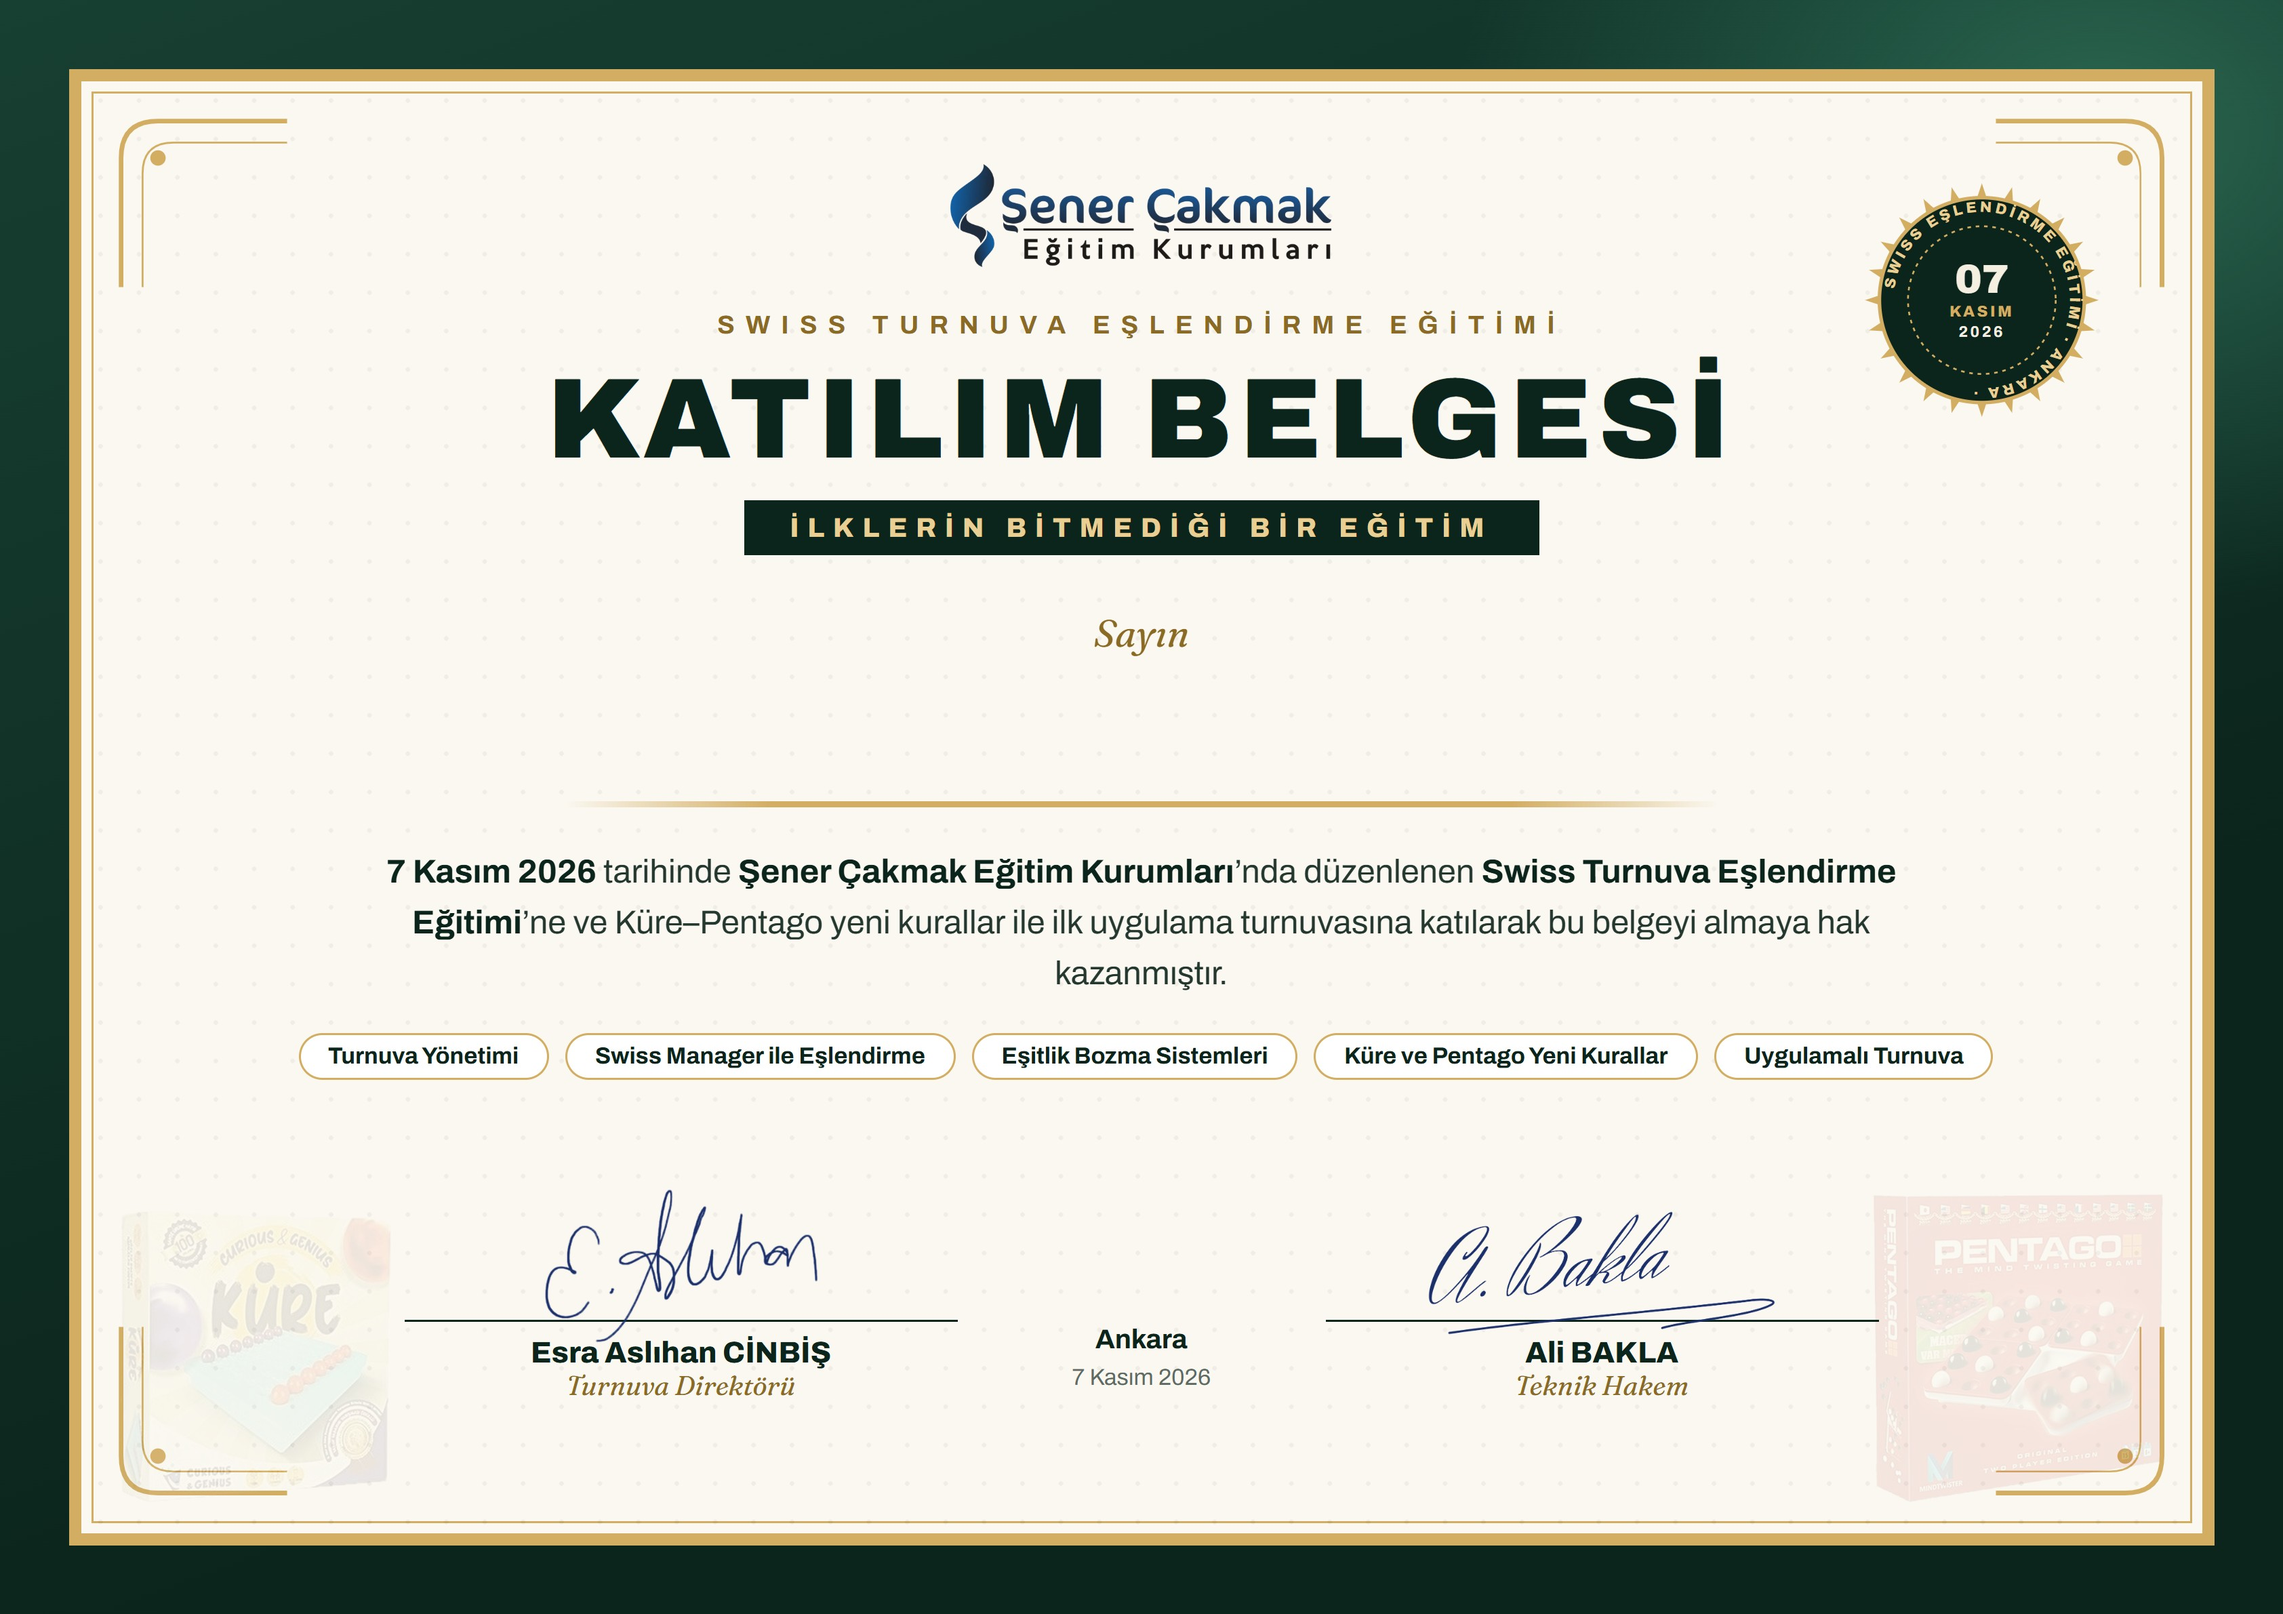
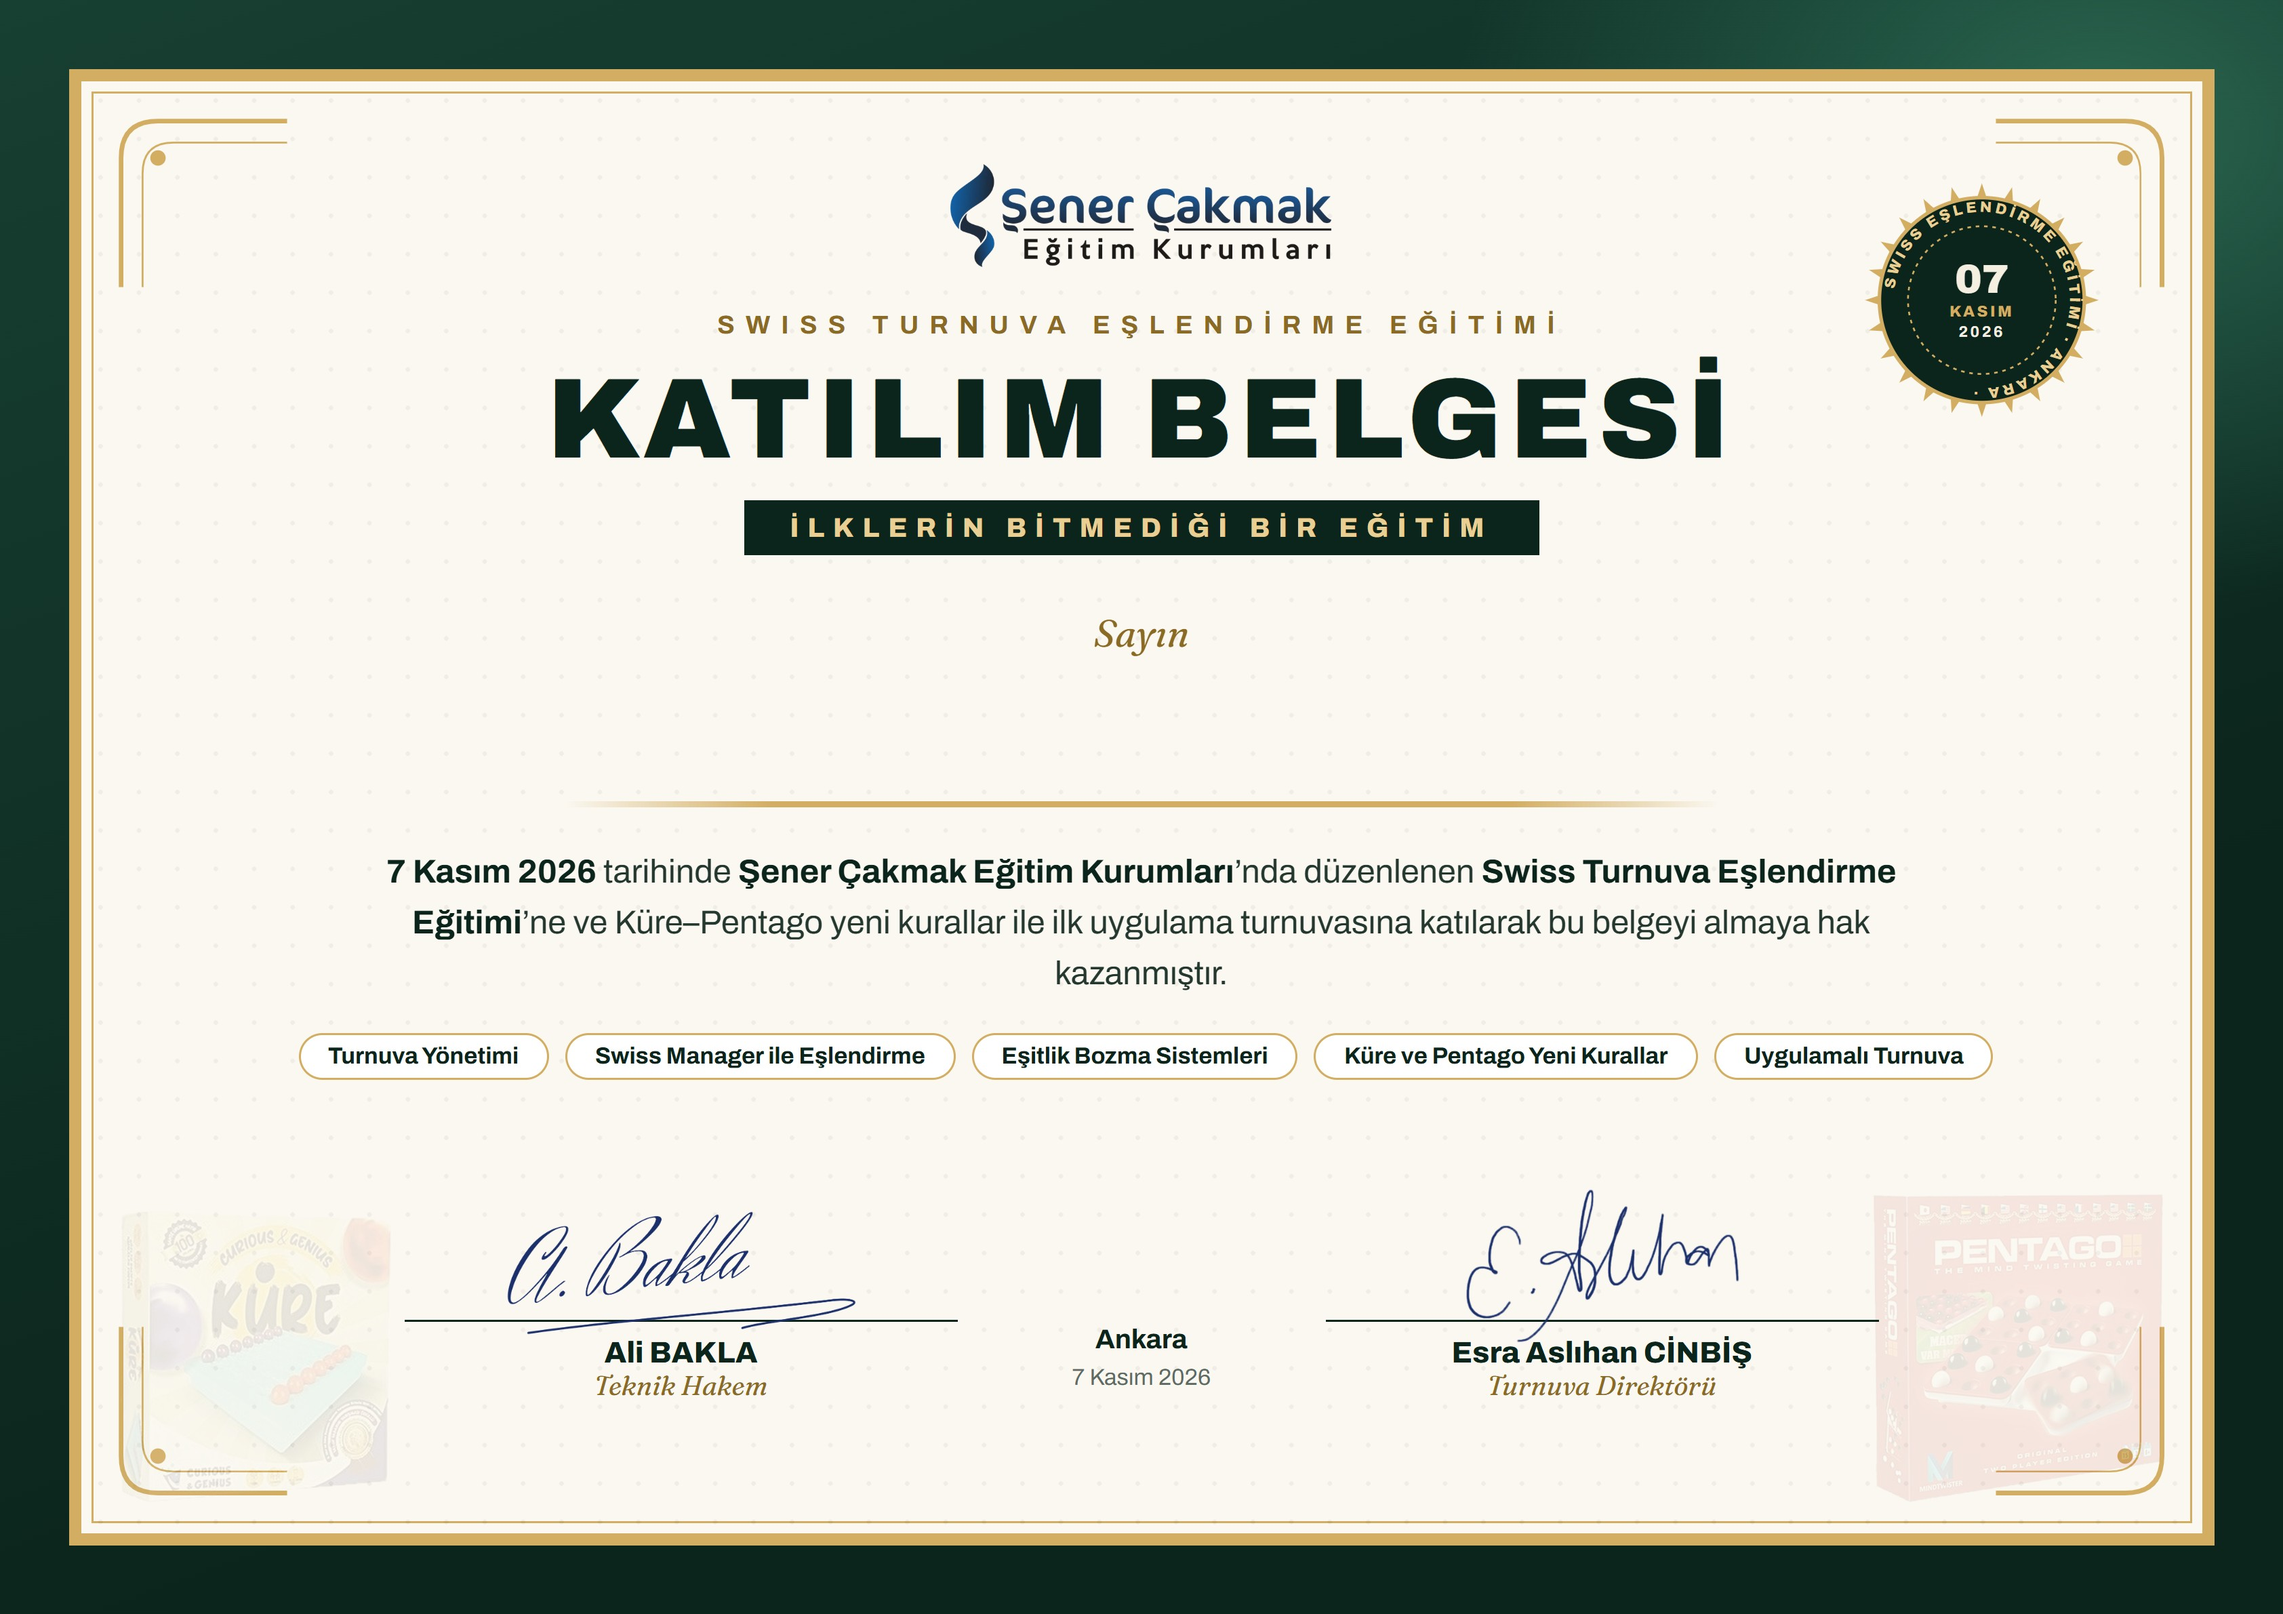
Esra Hocanın imzası sağa alındı

Changed region(s): [[0.6235, 0.7459, 0.7794, 0.8702], [0.2182, 0.7459, 0.3741, 0.8702]]

diff --git a/index.html b/index.html
@@ -42,7 +42,7 @@ footer b{color:var(--gold2)}
   <div class="uyari" id="uyari">Belge hazırlanıyor…</div>
   <div class="onizleme"><canvas id="c" width="3368" height="2381"></canvas></div>
   <div class="not">Adınızı Türkçe karakterlerle, nüfus kaydındaki gibi yazın. Belge bu sayfada, kendi bilgisayarınızda hazırlanır; hiçbir yere gönderilmez.</div>
-  <footer><b>Esra Aslıhan CİNBİŞ</b> · Turnuva Direktörü &nbsp;|&nbsp; <b>Ali BAKLA</b> · Teknik Hakem<br>Ankara Zeka ve Bilim Akademisi · @ankara_akilvezekaoyunlari</footer>
+  <footer><b>Ali BAKLA</b> · Teknik Hakem &nbsp;|&nbsp; <b>Esra Aslıhan CİNBİŞ</b> · Turnuva Direktörü<br>Ankara Zeka ve Bilim Akademisi · @ankara_akilvezekaoyunlari</footer>
 </div>
 <script src="https://cdnjs.cloudflare.com/ajax/libs/jspdf/2.5.1/jspdf.umd.min.js"></script>
 <script>
